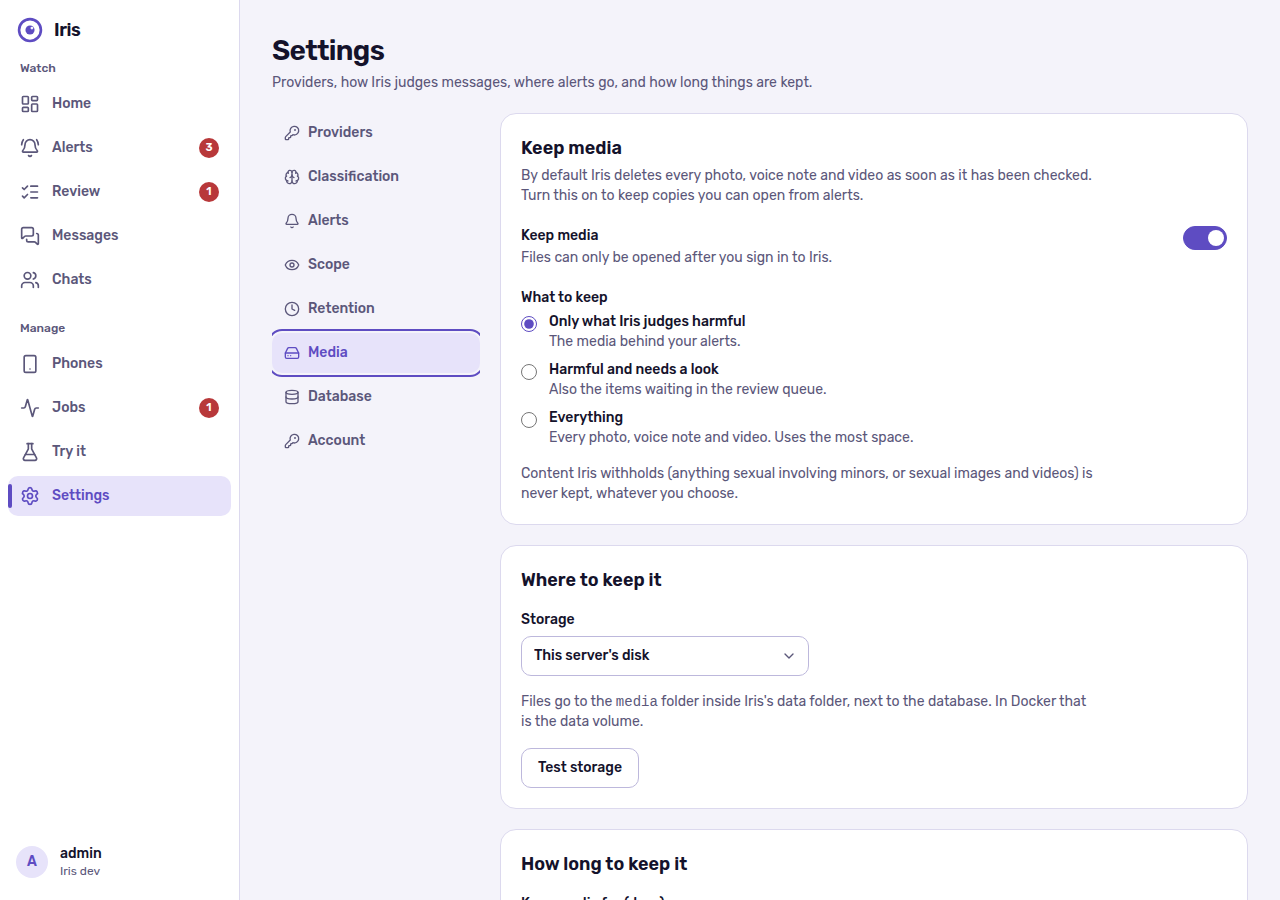
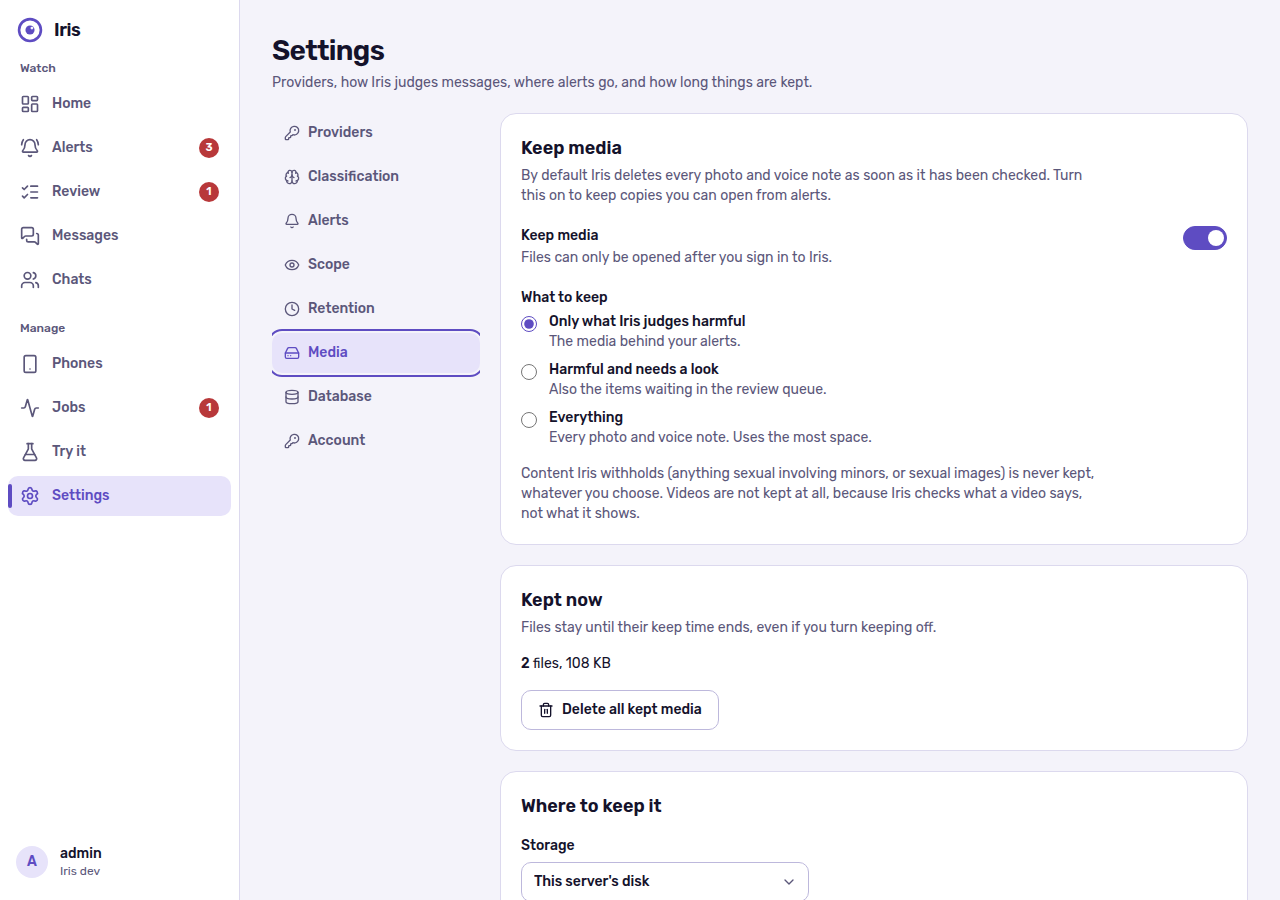
docs: videos are not kept; describe the delete-all control; refresh the media screenshots

diff --git a/web/src/pages/Settings.tsx b/web/src/pages/Settings.tsx
@@ -715,11 +715,7 @@ export function Settings() {
                         'Harmful and needs a look',
                         'Also the items waiting in the review queue.',
                       ],
-                      [
-                        'all',
-                        'Everything',
-                        'Every photo, voice note and video. Uses the most space.',
-                      ],
+                      ['all', 'Everything', 'Every photo and voice note. Uses the most space.'],
                     ] as const
                   ).map(([value, label, hint]) => (
                     <label key={value} className="flex items-start gap-3 text-sm">

diff --git a/README.md b/README.md
@@ -58,7 +58,7 @@ container (amd64 and arm64), and uses free or low-cost models wherever possible.
   system, and the whole portal passes an automated accessibility scan (keyboard, contrast, screen readers).
 - **Sexual content safety rule.** Content involving minors, or sexual imagery, is withheld entirely: it is
   not stored, not searchable, not shown and not forwarded. The alert says to review the chat directly.
-- **Keep the media if you want to (off by default).** Store the photo, voice note or video behind an alert on
+- **Keep the media if you want to (off by default).** Store the photo or voice note behind an alert on
   the server's disk or in S3-compatible storage (Cloudflare R2, AWS S3, SeaweedFS, MinIO); the alert and the
   dashboard link to it.
 - **Self-hosted and private.** Secrets are encrypted at rest, logs never contain message text, media is
@@ -226,13 +226,15 @@ Notes:
 
 ### Keeping media
 
-By default Iris deletes every photo, voice note and video as soon as it has been checked. Under **Settings >
+By default Iris deletes every photo and voice note as soon as it has been checked. Under **Settings >
 Media** you can turn on keeping copies, so you can look at what triggered an alert.
 
 ![Media settings](assets/screenshots/settings-media.png)
 
 - **What to keep:** only what Iris judges **harmful**; **harmful and needs a look** (the review queue too); or
   **everything**. The decision is made after the check, so a "harmful only" setting never stores the rest.
+  **Videos are not kept at all**: Iris checks what a video says, not what it shows, so it cannot promise that
+  a sexual video would be withheld.
 - **Where:** **this server's disk** (the `media` folder inside the data folder, so in Docker the data volume) or
   **S3-compatible storage**. Create the bucket first, then enter the endpoint, bucket, access key and secret
   key and press **Test storage**: Iris writes, reads back and deletes a tiny file.
@@ -249,7 +251,7 @@ Media** you can turn on keeping copies, so you can look at what triggered an ale
   message and its alert stay until their own limits under Retention. If the storage is unreachable, Iris keeps
   trying until the file is gone.
 - **Where you see it:** the WhatsApp alert gets a line such as `📎 Media kept (image, 1.2 MB): https://…/media/12`;
-  the alert page shows the photo, plays the voice note or video; the alert list and the dashboard mark alerts
+  the alert page shows the photo or plays the voice note; the alert list and the dashboard mark alerts
   that have media and the dashboard shows how many files and how much space they use.
 
   ![A kept photo on its alert](assets/screenshots/media-alert-detail.png)
@@ -263,15 +265,19 @@ Media** you can turn on keeping copies, so you can look at what triggered an ale
 How it stays safe:
 
 - **Withheld content is never kept.** Media of a message withheld by the safety rule (anything sexual involving
-  minors, or sexual images, stickers and videos) is not stored whatever you choose, and if a later check
-  withholds a message, its kept copy is deleted.
+  minors, or sexual images and stickers) is not stored whatever you choose, and if a later check withholds a
+  message, its kept copy is deleted. Media Iris could not check (a failed conversion or transcription) is not
+  kept either.
 - **Only after you sign in.** The link in the alert opens an Iris page that needs your login (it lasts 7 days
   on a phone). Iris streams the file itself, with a strict content type, so it is never served straight from the
   bucket and nothing in the WhatsApp text can open it on its own. Keep the bucket private.
-- **Only real photos, audio and video** are kept, recognised by their bytes. Documents are not downloaded.
+- **Only real photos and audio** are kept, recognised by their bytes and matched to the message type. Documents
+  and videos are not kept.
 - A storage problem never blocks checking or alerting: the alert simply goes out without the link.
 - Copying your data to another database does not move the files: they stay in the data folder or the bucket and
   keep working.
+- Each file remembers which storage it was written to, so changing the bucket later does not strand old files;
+  **Delete all kept media** (Settings > Media) removes everything, also after you turned keeping off.
 
 ### Settings (in the portal)
 
